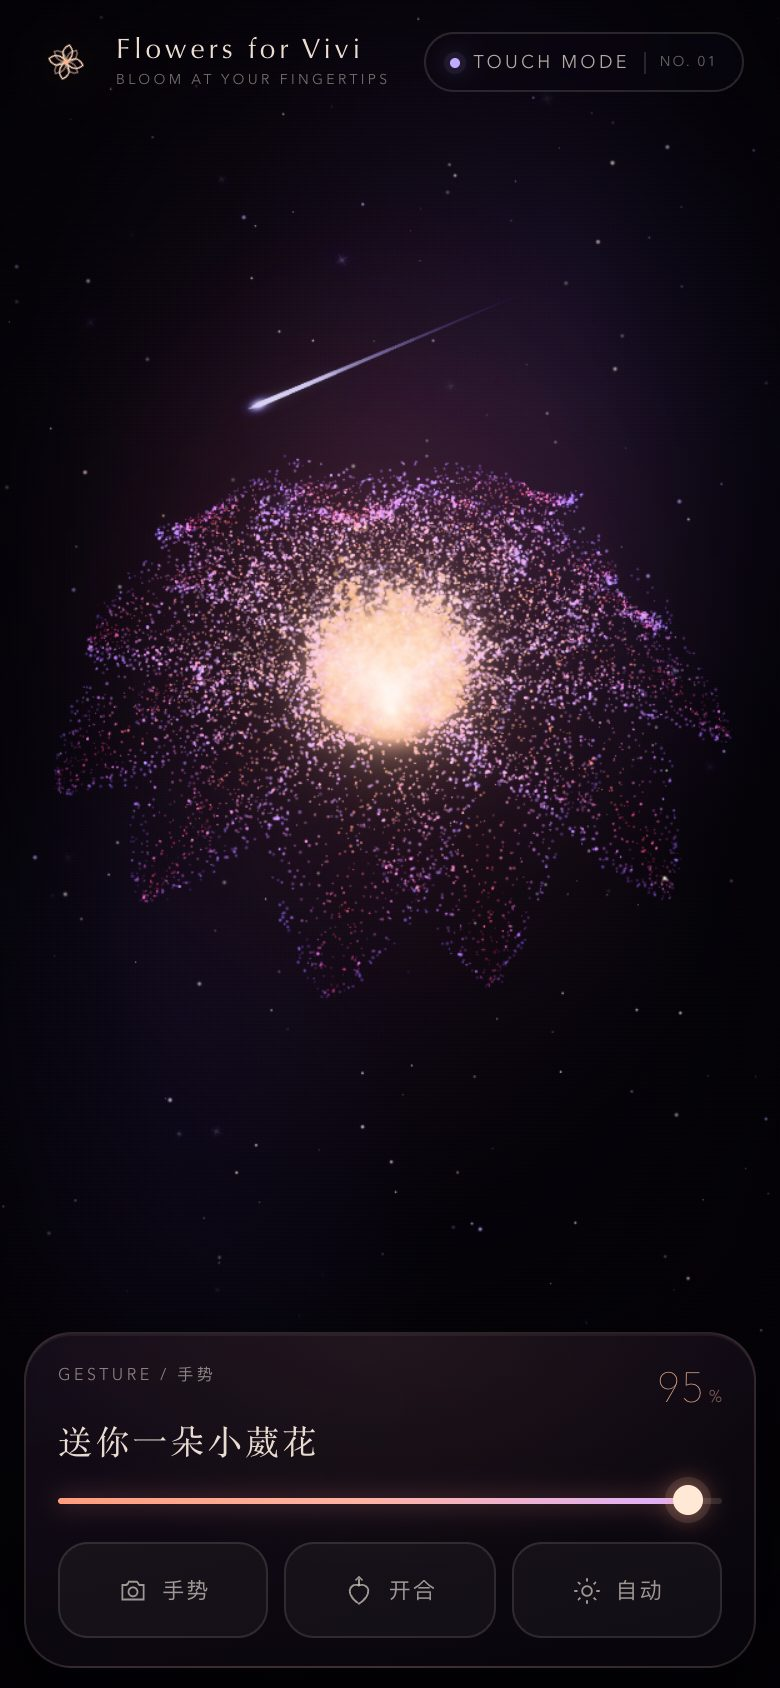
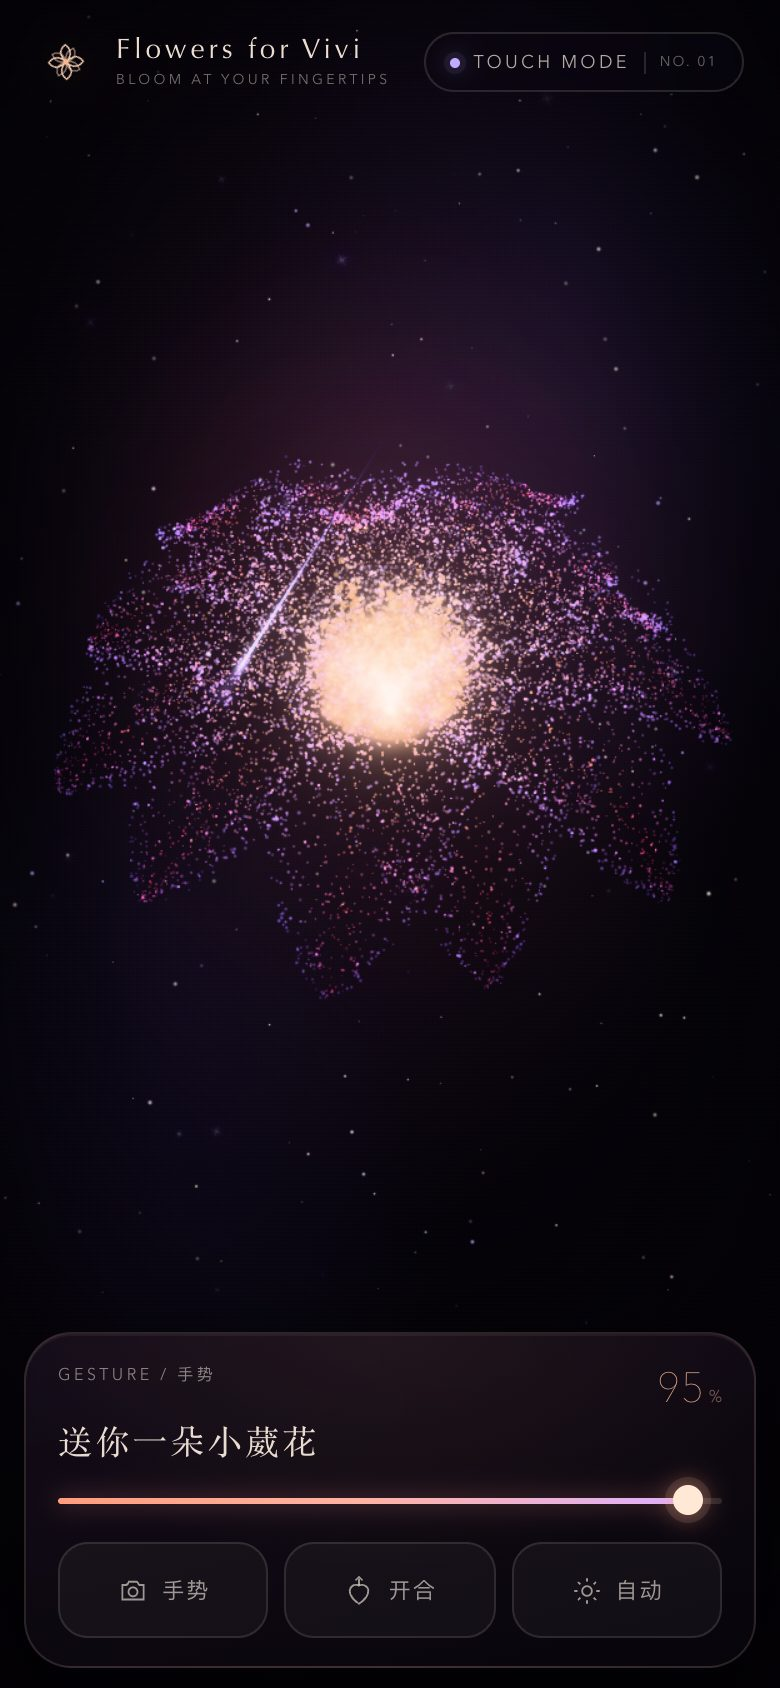
让星空呼吸，让流星更像流星
- 星点改为多频缓慢漂移（约 40 秒一个周期），近景星层可见浮动
- 流星增加重力弯折、加速、拖尾拉伸与闪烁
- 流星改为 核心拖尾 + 紫色辉光 + 头部星芒 三层叠加
- 12% 概率生成更慢更大的火流星
- 拉开随机角度与生命，减少"激光线"感
- 更新预览图

diff --git a/src/flower.js b/src/flower.js
@@ -428,10 +428,11 @@ const STAR_VERTEX = /* glsl */ `
 
   void main() {
     vec3 pos = position;
-    // A slow, almost imperceptible drift keeps the sky alive without
-    // looking like a spinning skybox.
-    pos.x += sin(uTime * 0.035 + aPhase * 21.0) * 0.55;
-    pos.y += sin(uTime * 0.12 + aPhase * 6.28) * 0.1;
+    // Each star drifts on its own slow orbit, so the whole sky breathes
+    // without ever looking like a rotating skybox.
+    pos.x += sin(uTime * 0.14 + aPhase * 27.0) * (0.3 + aPhase * 1.0);
+    pos.y += sin(uTime * 0.1 + aPhase * 13.0) * (0.1 + aPhase * 0.35);
+    pos.z += cos(uTime * 0.07 + aPhase * 9.0) * 0.22;
     vec4 mvPosition = modelViewMatrix * vec4(pos, 1.0);
     gl_PointSize = clamp(
       aSize * uPixelRatio * (1.0 + sin(uTime * 0.7 + aPhase * 9.0) * 0.35),
@@ -740,6 +741,8 @@ export class BloomScene {
     this._nextMeteorAt = 2.5 + Math.random() * 3.5;
     this._meteorPlane = new THREE.Plane(new THREE.Vector3(0, 0, 1), 6);
     this._meteorNdc = new THREE.Vector2();
+    this._meteorA = new THREE.Vector3();
+    this._meteorB = new THREE.Vector3();
 
     const geometry = createPetalGeometry(this.quality);
     this.petalMaterial = new THREE.ShaderMaterial({
@@ -1083,10 +1086,13 @@ export class BloomScene {
     if (!this._meteorTexture) return;
 
     this.camera.updateMatrixWorld(true);
-    const startNdcX = 0.3 + Math.random() * 0.72;
-    const startNdcY = 0.72 + Math.random() * 0.26;
-    const endNdcX = startNdcX - 0.95 - Math.random() * 0.35;
-    const endNdcY = startNdcY - 0.24 - Math.random() * 0.24;
+    const fireball = Math.random() < 0.12;
+    const startNdcX = 0.12 + Math.random() * 0.82;
+    const startNdcY = 0.56 + Math.random() * 0.42;
+    const screenAngle = -(0.38 + Math.random() * 0.72);
+    const travel = (0.85 + Math.random() * 0.5) * (fireball ? 1.1 : 1);
+    const endNdcX = startNdcX - Math.cos(screenAngle) * travel;
+    const endNdcY = startNdcY + Math.sin(screenAngle) * travel;
 
     const start = this._worldOnMeteorPlane(
       startNdcX,
@@ -1099,55 +1105,129 @@ export class BloomScene {
       new THREE.Vector3(),
     );
     const dir = end.sub(start).normalize();
-    const length = 3.0 + Math.random() * 1.4;
+    const length =
+      (fireball ? 4.2 : 2.4) + Math.random() * (fireball ? 1.6 : 1.1);
+    const baseOpacity = fireball ? 1 : 0.82 + Math.random() * 0.18;
 
-    const material = new THREE.SpriteMaterial({
+    const coreMaterial = new THREE.SpriteMaterial({
       map: this._meteorTexture,
-      color: 0xe2dcff,
+      color: fireball ? 0xfff0d6 : 0xffffff,
       transparent: true,
       opacity: 0,
       depthWrite: false,
       depthTest: true,
       blending: THREE.AdditiveBlending,
-      rotation: Math.atan2(endNdcY - startNdcY, endNdcX - startNdcX),
     });
-    const sprite = new THREE.Sprite(material);
-    sprite.position.copy(start);
-    sprite.scale.set(length, length * 0.15, 1);
-    sprite.renderOrder = 1;
-    this.scene.add(sprite);
+    const glowMaterial = new THREE.SpriteMaterial({
+      map: this._meteorTexture,
+      color: fireball ? 0xff9d78 : 0x9f8dff,
+      transparent: true,
+      opacity: 0,
+      depthWrite: false,
+      depthTest: true,
+      blending: THREE.AdditiveBlending,
+    });
+    const headMaterial = new THREE.SpriteMaterial({
+      map: this._sparkleTexture,
+      color: fireball ? 0xffe3c4 : 0xffffff,
+      transparent: true,
+      opacity: 0,
+      depthWrite: false,
+      depthTest: true,
+      blending: THREE.AdditiveBlending,
+    });
+
+    const group = new THREE.Group();
+    group.position.copy(start);
+
+    const core = new THREE.Sprite(coreMaterial);
+    core.scale.set(length, length * 0.11, 1);
+    core.renderOrder = 2;
+
+    const glow = new THREE.Sprite(glowMaterial);
+    glow.scale.set(length * 1.25, length * 0.34, 1);
+    glow.renderOrder = 1;
+
+    const head = new THREE.Sprite(headMaterial);
+    const headScale = (fireball ? 0.5 : 0.2) + Math.random() * 0.16;
+    head.scale.setScalar(headScale);
+    head.renderOrder = 3;
+
+    group.add(core, glow, head);
+    this.scene.add(group);
 
     this.meteors.push({
-      sprite,
+      group,
+      core,
+      glow,
+      head,
+      headScale,
       dir,
+      length,
       age: 0,
-      life: 1.5 + Math.random() * 0.6,
-      speed: 4.2 + Math.random() * 1.9,
-      base: 0.85 + Math.random() * 0.15,
+      life: (fireball ? 2.2 : 1.4) + Math.random() * 0.7,
+      speed: (fireball ? 3.6 : 4.6) + Math.random() * 1.8,
+      accel: 0.9 + Math.random() * 1.4,
+      gravity: 0.28 + Math.random() * 0.42,
+      base: baseOpacity,
+      phase: Math.random() * Math.PI * 2,
+      fireball,
     });
   }
 
   _updateMeteors(dt, time) {
     if (time >= this._nextMeteorAt) {
       this.spawnMeteor();
-      if (Math.random() < 0.28) this.spawnMeteor();
-      this._nextMeteorAt = time + 8 + Math.random() * 11;
+      if (Math.random() < 0.24) this.spawnMeteor();
+      this._nextMeteorAt = time + 9 + Math.random() * 12;
     }
 
     for (let i = this.meteors.length - 1; i >= 0; i -= 1) {
       const meteor = this.meteors[i];
       meteor.age += dt;
-      meteor.sprite.position.addScaledVector(meteor.dir, meteor.speed * dt);
+      meteor.speed += meteor.accel * dt;
+
+      // A slight gravity bend keeps the flight path from feeling like a
+      // perfectly straight laser; the tail is re-aimed every frame.
+      meteor.dir.y -= meteor.gravity * dt;
+      meteor.dir.normalize();
+      meteor.group.position.addScaledVector(meteor.dir, meteor.speed * dt);
+
+      const p0 = this._meteorA.copy(meteor.group.position).project(this.camera);
+      const p1 = this._meteorB
+        .copy(meteor.group.position)
+        .add(meteor.dir)
+        .project(this.camera);
+      const angle = Math.atan2(p1.y - p0.y, p1.x - p0.x);
+      meteor.core.material.rotation = angle;
+      meteor.glow.material.rotation = angle;
+
+      meteor.head.position
+        .copy(meteor.dir)
+        .multiplyScalar(meteor.length * 0.42);
 
       const t = meteor.age / meteor.life;
-      const fadeIn = Math.min(1, t / 0.12);
-      const fadeOut = 1 - Math.max(0, (t - 0.55) / 0.45);
-      meteor.sprite.material.opacity =
-        meteor.base * Math.max(0, Math.min(fadeIn, fadeOut));
+      const fadeIn = smoothstep(0, 0.1, t);
+      const fadeOut = 1 - smoothstep(0.62, 1, t);
+      const fade = Math.max(0, fadeIn * fadeOut);
+      const flicker = 0.9 + 0.1 * Math.sin(time * 38 + meteor.phase);
+
+      meteor.core.material.opacity = meteor.base * fade * flicker;
+      meteor.glow.material.opacity = meteor.base * 0.32 * fade;
+      meteor.head.material.opacity = meteor.base * 0.72 * fade * flicker;
+
+      const stretch = 0.82 + t * 0.32;
+      meteor.core.scale.x = meteor.length * stretch;
+      meteor.glow.scale.x = meteor.length * 1.25 * stretch;
+      meteor.head.scale.setScalar(
+        meteor.headScale * (0.92 + 0.1 * Math.sin(time * 17 + meteor.phase)),
+      );
 
       if (t >= 1) {
-        this.scene.remove(meteor.sprite);
-        meteor.sprite.material.dispose();
+        this.scene.remove(meteor.group);
+        meteor.core.material.dispose();
+        meteor.glow.material.dispose();
+        meteor.head.material.dispose();
         this.meteors.splice(i, 1);
       }
     }
@@ -1312,7 +1392,12 @@ export class BloomScene {
     this._sparkleTexture.dispose();
     this._meteorTexture.dispose();
     for (const sparkle of this.sparkles) sparkle.sprite.material.dispose();
-    for (const meteor of this.meteors) meteor.sprite.material.dispose();
+    for (const meteor of this.meteors) {
+      this.scene.remove(meteor.group);
+      meteor.core.material.dispose();
+      meteor.glow.material.dispose();
+      meteor.head.material.dispose();
+    }
     this.composer.dispose();
     this.renderer.dispose();
   }
